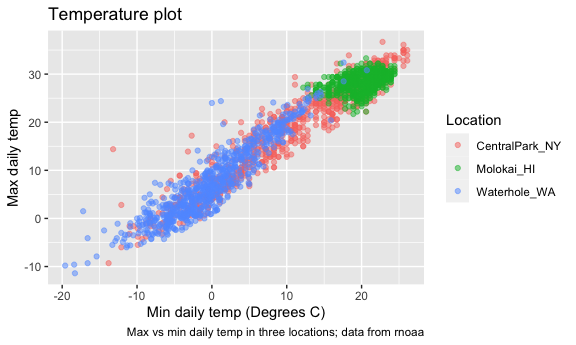
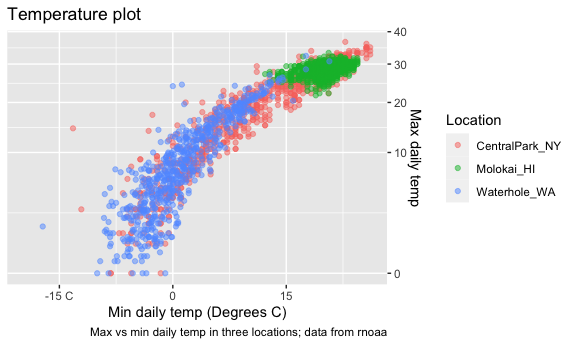
1

diff --git a/visualization-2.md b/visualization-2.md
@@ -68,16 +68,51 @@ weather_df =
 
 ``` r
 weather_df |> 
-  ggplot(aes(x= tmin, y= tmax, color =name))+
-  geom_point(alpha =.5)+
+  ggplot(aes(x = tmin, y = tmax, color = name)) + 
+  geom_point(alpha = .5) + 
   labs(
     title = "Temperature plot",
     x = "Min daily temp (Degrees C)",
     y = "Max daily temp",
     color = "Location",
-    caption = "Max vs min daily temp in three locations; data from rnoaa")
+    caption = "Max vs min daily temp in three locations; data from rnoaa"
+  ) + 
+  scale_x_continuous(
+    breaks = c(-15, 0, 15),
+    labels = c("-15 C", "0", "15")
+  ) + 
+  scale_y_continuous(
+    position = "right", 
+    trans = "sqrt"
+  )
+```
+
+    ## Warning in self$trans$transform(x): NaNs produced
+
+    ## Warning: Transformation introduced infinite values in continuous y-axis
+
+    ## Warning: Removed 142 rows containing missing values (`geom_point()`).
+
+<img src="visualization-2_files/figure-gfm/unnamed-chunk-3-1.png" width="90%" />
+
+what about colors
+
+``` r
+weather_df |> 
+  ggplot(aes(x = tmin, y = tmax, color = name)) + 
+  geom_point(alpha = .5) + 
+  labs(
+    title = "Temperature plot",
+    x = "Min daily temp (Degrees C)",
+    y = "Max daily temp",
+    color = "Location",
+    caption = "Max vs min daily temp in three locations; data from rnoaa"
+  )+
+  viridis::scale_color_viridis(discrete = TRUE)
 ```
 
     ## Warning: Removed 17 rows containing missing values (`geom_point()`).
 
-<img src="visualization-2_files/figure-gfm/unnamed-chunk-3-1.png" width="90%" />
+<img src="visualization-2_files/figure-gfm/unnamed-chunk-4-1.png" width="90%" />
+
+## Themes
